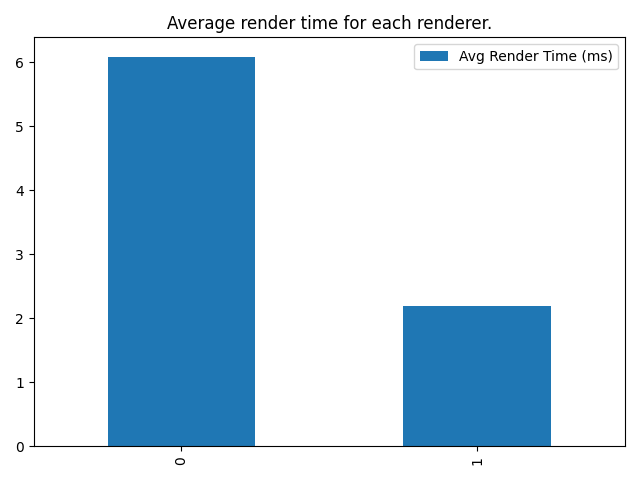
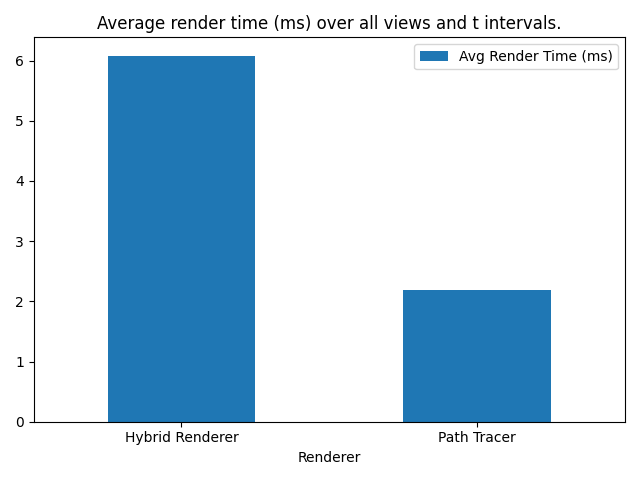
fixed performance comp graph

diff --git a/benchmark_results/create_figures.py b/benchmark_results/create_figures.py
@@ -123,7 +123,8 @@ def create_bar_char_performance(df_hr: pd.DataFrame, df_pt: pd.DataFrame, filena
     }
 
     df = pd.DataFrame(data)
-    df.plot.bar()
+    df.plot.bar('Renderer')
+    plt.xticks(rotation=0)
     plt.title(title)
     plt.tight_layout()
     plt.savefig(filename)
@@ -140,7 +141,7 @@ create_t_barchart(pt_df, 'figs/pt_avg_rendertime_view0.png', 'Average Render tim
 create_t_barchart_build_time(hr_df, 'figs/hr_avg_as_build_time.png', 'Average AS Build time (ms) using Hybrid Rendering', [ 1.0, 3.0 ])
 create_t_barchart_build_time(pt_df, 'figs/pt_avg_as_build_time.png', 'Average AS Build time (ms) using Pathtracing', [ 1.0, 3.0 ])
 
-create_bar_char_performance(hr_df, pt_df, 'figs/performance_comp.png', 'Average render time for each renderer.')
+create_bar_char_performance(hr_df, pt_df, 'figs/performance_comp.png', 'Average render time (ms) over all views and t intervals.')
 
 hr_per_pass_bar_char(hr_df, 'figs/hr_avg_per_pass.png', 'Per pass render time for Hybrid Rendering')
 hr_pass_time_bar_char(hr_df, 'figs/hr_gbuff_sample_time.png', 'GBuffer Sample pass Render time', 'GBuffer Sample time (ms)')
